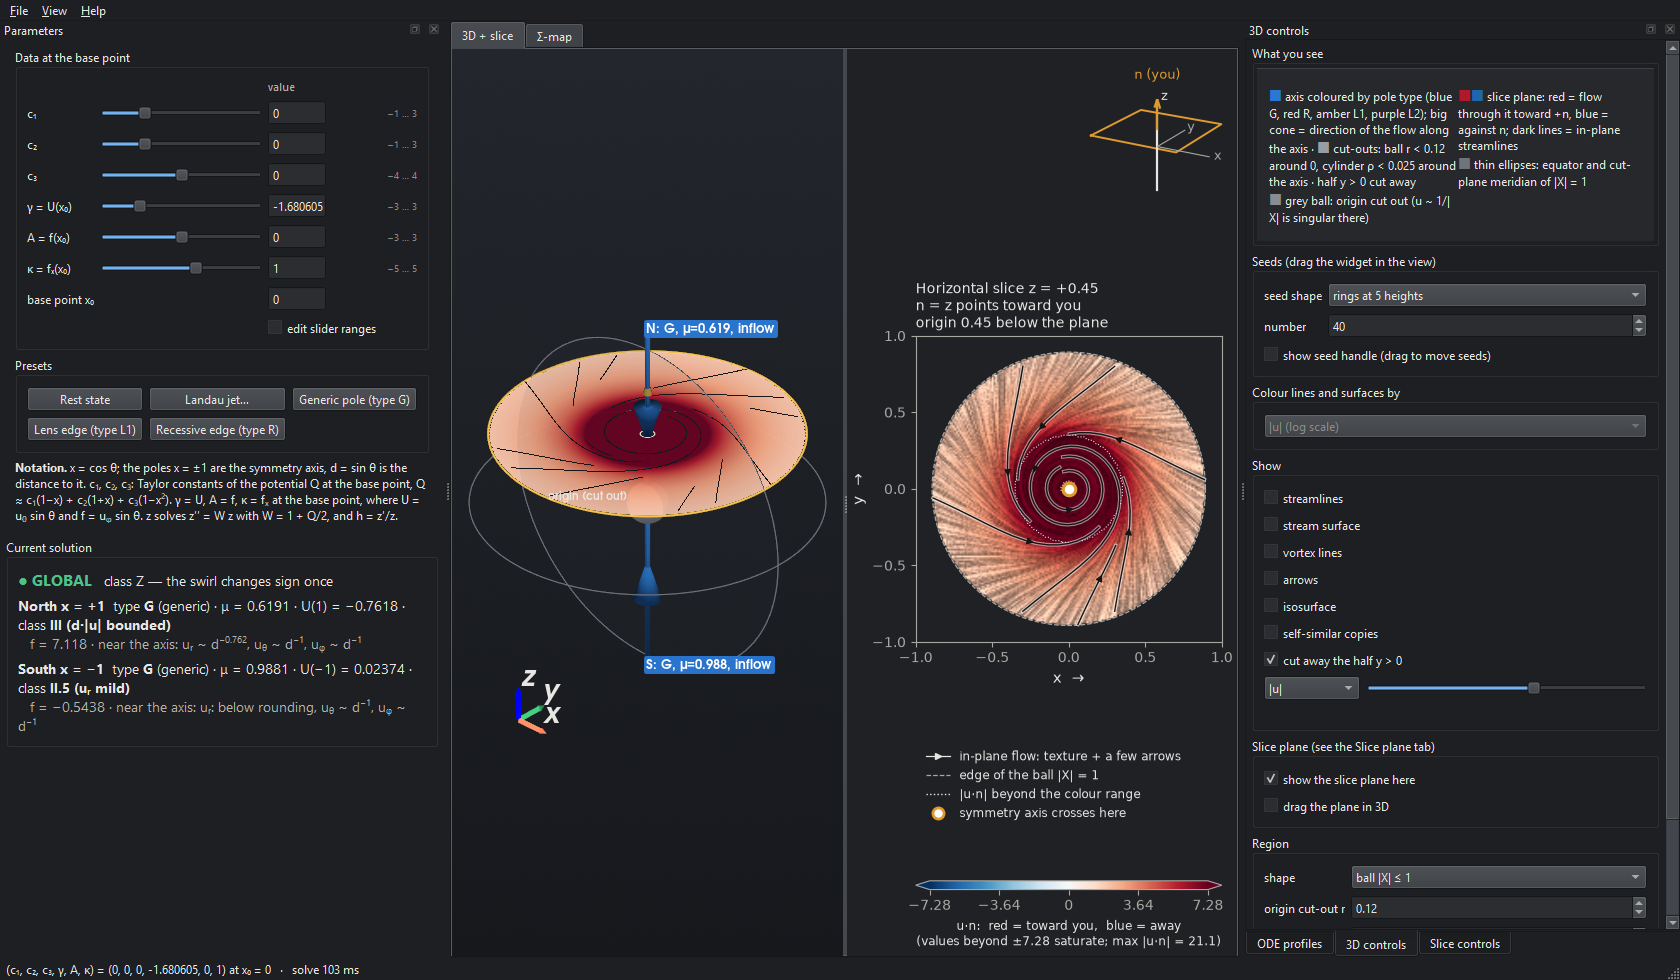
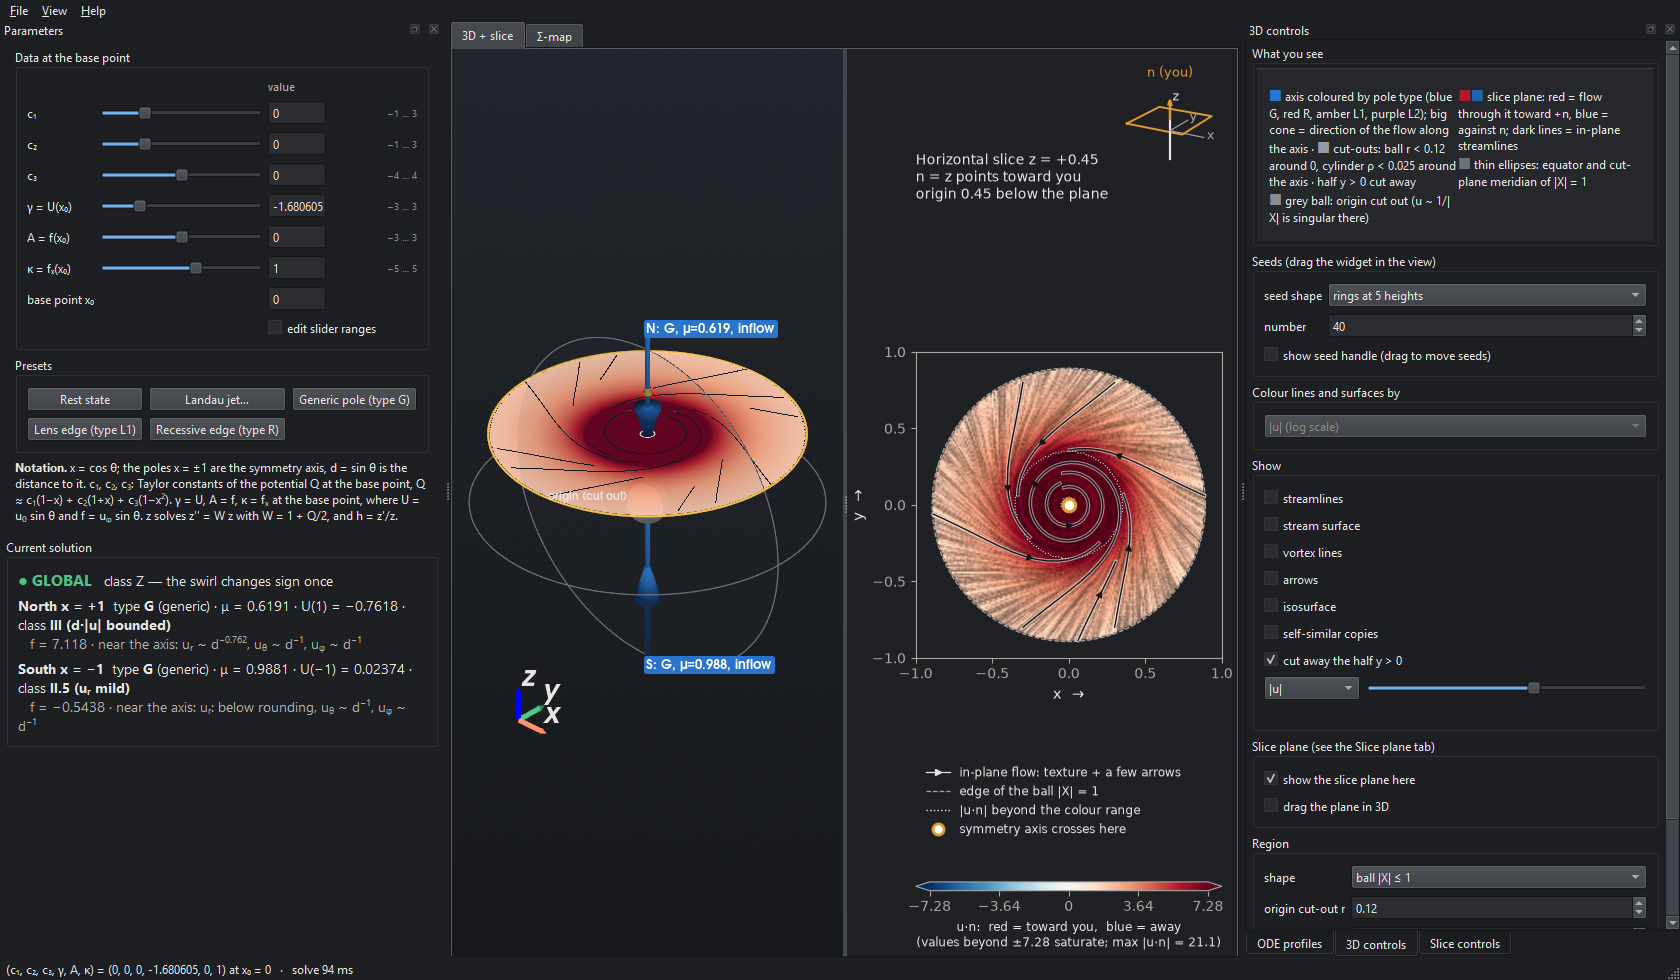
Slice: presets update the sliders, typed az/el/offset fields, sketch in its own cell, 3D slice off by default

diff --git a/swirl_explorer/ui/panels/slice_panel.py b/swirl_explorer/ui/panels/slice_panel.py
@@ -138,12 +138,14 @@ class SlicePanel(QWidget):
         self.az = self._slider(-180, 180, "azimuth of the normal (degrees, from +x toward +y)")
         self.el = self._slider(-90, 90, "elevation of the normal above the equator (degrees)")
         self.off = self._slider(-95, 95, "offset of the plane from the origin along its normal (×0.01)")
-        self.az_lab, self.el_lab, self.off_lab = QLabel(), QLabel(), QLabel()
-        for r, (name, s, lab) in enumerate((("azimuth", self.az, self.az_lab), ("elevation", self.el, self.el_lab),
-                                            ("offset", self.off, self.off_lab))):
+        self.az_spin = self._spin(-180, 180, 2, 1.0, "°")
+        self.el_spin = self._spin(-90, 90, 2, 1.0, "°")
+        self.off_spin = self._spin(-0.95, 0.95, 3, 0.01, "")
+        for r, (name, s, sp) in enumerate((("azimuth", self.az, self.az_spin), ("elevation", self.el, self.el_spin),
+                                           ("offset", self.off, self.off_spin))):
             grid.addWidget(QLabel(name), r, 0)
             grid.addWidget(s, r, 1)
-            grid.addWidget(lab, r, 2)
+            grid.addWidget(sp, r, 2)
         gv.addLayout(grid)
         self.normal_lab = QLabel("")
         self.normal_lab.setWordWrap(True)
@@ -211,19 +213,31 @@ class SlicePanel(QWidget):
         s.valueChanged.connect(self._sliders_moved)
         return s
 
+    def _spin(self, lo, hi, decimals, step, suffix) -> QDoubleSpinBox:
+        s = QDoubleSpinBox()
+        s.setRange(lo, hi)
+        s.setDecimals(decimals)
+        s.setSingleStep(step)
+        s.setSuffix(suffix)
+        s.setKeyboardTracking(False)          # apply on Enter / focus-out, not on every keystroke
+        s.setMinimumWidth(78)
+        s.valueChanged.connect(self._spins_changed)
+        return s
+
     # ---------------------------------------------------------------- state sync
     def _load_spec(self, spec: PlaneSpec):
+        """Show `spec` in the sliders and the typed fields without emitting anything."""
         self._block = True
         self.az.setValue(int(round(spec.azimuth)))
         self.el.setValue(int(round(spec.elevation)))
         self.off.setValue(int(round(spec.offset * 100)))
+        self.az_spin.setValue(spec.azimuth)
+        self.el_spin.setValue(spec.elevation)
+        self.off_spin.setValue(spec.offset)
         self._block = False
         self._update_labels(spec)
 
     def _update_labels(self, spec: PlaneSpec):
-        self.az_lab.setText(f"{spec.azimuth:.0f}°")
-        self.el_lab.setText(f"{spec.elevation:.0f}°")
-        self.off_lab.setText(f"{spec.offset:+.2f}".replace("-", "−"))
         e1, e2, n = spec.basis()
         self.normal_lab.setText(f"normal n = {_fmt_vec(n)} points toward you<br>"
                                 f"right = {_fmt_vec(e1)}, up = {_fmt_vec(e2)}")
@@ -231,15 +245,24 @@ class SlicePanel(QWidget):
     def _preset(self, az, el):
         spec = PlaneSpec(azimuth=az, elevation=el, offset=0.0, half_size=self.ctrl.spec.half_size,
                          n=self.ctrl.spec.n)
+        self._load_spec(spec)                 # the sliders and fields must show the preset
+        self.ctrl.set_spec(spec, source=self)
+
+    def _emit(self, az, el, off):
+        old = self.ctrl.spec
+        spec = PlaneSpec(azimuth=az, elevation=el, offset=off, half_size=old.half_size, n=old.n)
+        self._load_spec(spec)
         self.ctrl.set_spec(spec, source=self)
 
     def _sliders_moved(self, *_):
         if self._block:
             return
-        old = self.ctrl.spec
-        spec = PlaneSpec(azimuth=self.az.value(), elevation=self.el.value(), offset=self.off.value() / 100,
-                         half_size=old.half_size, n=old.n)
-        self.ctrl.set_spec(spec, source=self)
+        self._emit(self.az.value(), self.el.value(), self.off.value() / 100)
+
+    def _spins_changed(self, *_):
+        if self._block:
+            return
+        self._emit(self.az_spin.value(), self.el_spin.value(), self.off_spin.value())
 
     def _plane_changed(self, payload):
         spec, source = payload
@@ -302,7 +325,11 @@ class SlicePanel(QWidget):
         self.fig.clear()
         self.fig.set_facecolor(p["plot_bg"])
         with matplotlib.rc_context(style.mpl_rc()):
-            ax = self.fig.add_subplot()
+            # top row: title (left) + orientation sketch (right); below: the slice.  Separate cells, no overlap.
+            gs = self.fig.add_gridspec(2, 2, height_ratios=[1.3, 3.6], width_ratios=[1.5, 1])
+            ax_title = self.fig.add_subplot(gs[0, 0])
+            ax_title.set_axis_off()
+            ax = self.fig.add_subplot(gs[1, :])
             L = data.spec.half_size
             ext = (-L, L, -L, L)
             AXIS_COL = "#e09a2d"
@@ -391,8 +418,8 @@ class SlicePanel(QWidget):
             where = ""
             if abs(d) > self.domain.r_min:
                 where = f"\norigin {abs(d):.2f} " + ("below" if d > 0 else "above") + " the plane"
-            ax.set_title(f"{_plane_name(data.spec)}\nn = {_axis_name(n)} points toward you{where}", fontsize=10,
-                         loc="left")
+            ax_title.text(0.0, 0.05, f"{_plane_name(data.spec)}\nn = {_axis_name(n)} points toward you{where}",
+                          fontsize=10, ha="left", va="bottom", color=p["plot_ink"], transform=ax_title.transAxes)
             ticks = np.arange(-L, L + 1e-9, 0.5)
             ax.set_xticks(ticks)
             ax.set_yticks(ticks)
@@ -402,8 +429,7 @@ class SlicePanel(QWidget):
             ax.legend(handles=handles, loc="upper left", bbox_to_anchor=(0.0, -0.32), ncol=1, fontsize=8.5,
                       frameon=False)
             # orientation inset: the plane, its normal and the symmetry axis in 3D
-            ins = self.fig.add_axes([0.58, 0.78, 0.42, 0.22], projection="3d")
-            ins.set_in_layout(False)
+            ins = self.fig.add_subplot(gs[0, 1], projection="3d")
             ins.set_axis_off()
             ins.set_facecolor((0, 0, 0, 0))
             c = data.spec.center
@@ -418,7 +444,7 @@ class SlicePanel(QWidget):
             ins.text(0, 1.2, -0.05, "y", fontsize=9, color=p["plot_ink2"])
             ins.quiver(*c, *(0.8 * n), color="#e09a2d", lw=1.6, arrow_length_ratio=0.3)
             tip = c + 1.0 * n
-            ins.text(*(tip + 0.25 * n), "n (you)", fontsize=9, color="#e09a2d", ha="center", va="bottom")
+            ins.text(*(tip + 0.6 * n), "n (you)", fontsize=9, color="#e09a2d", ha="center", va="bottom")
             ins.set_xlim(-1, 1)
             ins.set_ylim(-1, 1)
             ins.set_zlim(-1, 1)

diff --git a/tests/test_slices.py b/tests/test_slices.py
@@ -125,6 +125,16 @@ def test_slice_panel_sync_and_export(app, tmp_path):
         app.processEvents()
         time.sleep(0.01)
     assert got[-1][0].spec.elevation == pytest.approx(45)
+    # a preset moves the sliders, and a later slider move starts from the preset
+    panel._preset(0, 0)
+    assert panel.az.value() == 0 and panel.el.value() == 0 and panel.off.value() == 0
+    panel.off.setValue(30)
+    assert ctrl.spec.azimuth == pytest.approx(0) and ctrl.spec.offset == pytest.approx(0.3)
+    # typed values are exact (finer than the slider steps)
+    panel.az_spin.setValue(12.34)
+    assert ctrl.spec.azimuth == pytest.approx(12.34) and panel.az.value() == 12
+    panel.off_spin.setValue(0.123)
+    assert ctrl.spec.offset == pytest.approx(0.123) and ctrl.spec.azimuth == pytest.approx(12.34)
     out = panel.export("png", str(tmp_path / "s.png"))
     assert os.path.getsize(out) > 1000
     panel.shutdown()

diff --git a/swirl_explorer/ui/panels/view3d_panel.py b/swirl_explorer/ui/panels/view3d_panel.py
@@ -178,7 +178,7 @@ class View3DPanel(QWidget):
         g = QGroupBox("Slice plane (see the Slice plane tab)")
         gv = QVBoxLayout(g)
         self.chk_slice = QCheckBox("show the slice plane here")
-        self.chk_slice.setChecked(True)
+        self.chk_slice.setChecked(False)      # off by default: the user turns the plane on
         self.chk_slice.setToolTip("the plane coloured by u·n with its in-plane streamlines")
         self.chk_plane_widget = QCheckBox("drag the plane in 3D")
         self.chk_plane_widget.setToolTip("adds a plane handle: drag it to move, the arrow to tilt")
